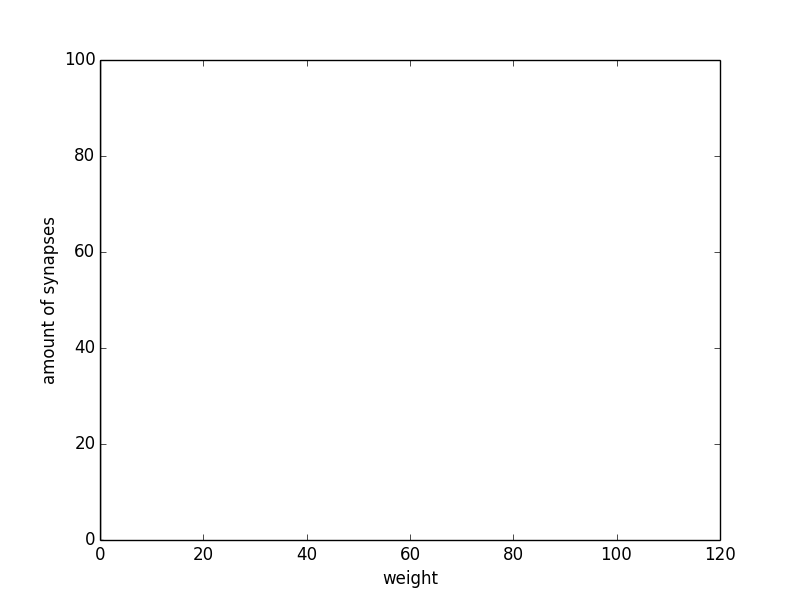
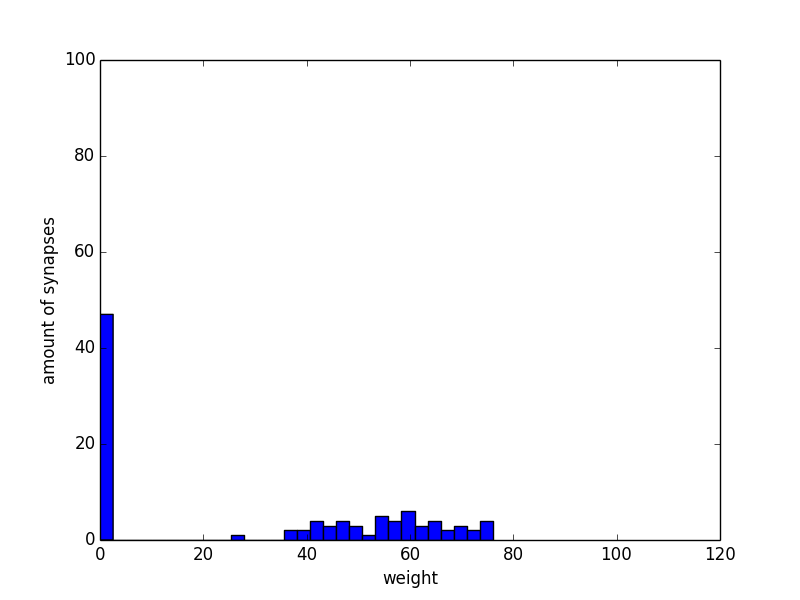
upd

Changed region(s): [[0.125, 0.51, 0.1562, 0.9], [0.3438, 0.84, 0.625, 0.9], [0.2812, 0.87, 0.3125, 0.9]]

diff --git a/src/synapse.cpp b/src/synapse.cpp
@@ -745,11 +745,11 @@ double SynapseKostya::incSpike(double _t){
         if( -60 < h < -2 ){
             dw = MAX(dw, - WM * exp( h / taup ));
         }
-        
+
     }
     last_spiked = _t;
     w += dw;
-    // weight = w;
+    weight = w;
     return w;
 }
 
@@ -766,7 +766,7 @@ double SynapseKostya::incAfterSpike(double _t){
     }
     last_spiked_post = _t;
     w += dw;
-    // weight = w;
+    weight = w;
     return w;
 }
 
@@ -787,7 +787,7 @@ void SynapseKostya::setData(int pre, int pos, int preex, int posex, double dt){
         WP = 0.300;//0.3;
         WM = 0.3105;//0.3105;
         w_min = 0;
-        taup = 1;
+        taup = 20;
         taum = 20;
         
         presynaptic = pre;
@@ -841,7 +841,7 @@ void SynapseKostya::setData(int pre, int pos, int preex, int posex, double dt){
     R = 1;
     g = 0;
     out_current = 0;
-    // weight = w;
+    weight = w;
 }
 
 double SynapseKostya::evolve(double dt, double time, double Vpre, double Vpost){

diff --git a/src/simulation.cpp b/src/simulation.cpp
@@ -511,11 +511,10 @@ int SimulationSingleton::sendSynapseNoise(){
 }
 
 int SimulationSingleton::evolveAllNeurons(){
-    for(int i=0; i < N; i++)
-        if(neuron_array[i]->evolve(dt, time_now)){
-            saveSpike(i);
-            neuronSpiked(i);
-        }
+    if(neuron_array[2]->evolve(dt, time_now)){
+        saveSpike(2);
+        neuronSpiked(2);
+    }
 
     return 0;
 }

diff --git a/src/main.cpp b/src/main.cpp
@@ -91,7 +91,7 @@ int main(){
         }
 
         cout<<"Finished "<<fixed<<(storage->time_now)/ \
-                                  (storage->length_of_simulation)<<"\r";
+                                  (storage->length_of_simulation)+1<<"\r";
     }
     std::cout<<"\nThird rand: "<<rand()<<std::endl;
 

diff --git a/pard.m b/pard.m
@@ -5,7 +5,7 @@ pi = 3.14159265359;
     fprintf('\n\t\tNew instance %4.0f\n', random('Uniform', 1, 99999));
 
     LOAD_NEURON_PARAMETERS = 0;
-    LOAD_POTENTIALS = 0;
+    LOAD_POTENTIALS = 1;
     LOAD_SYNAPSE_DATA = 0;
     LOAD_SPIKES = 1;
     LOAD_SYNAPSES = 0;
